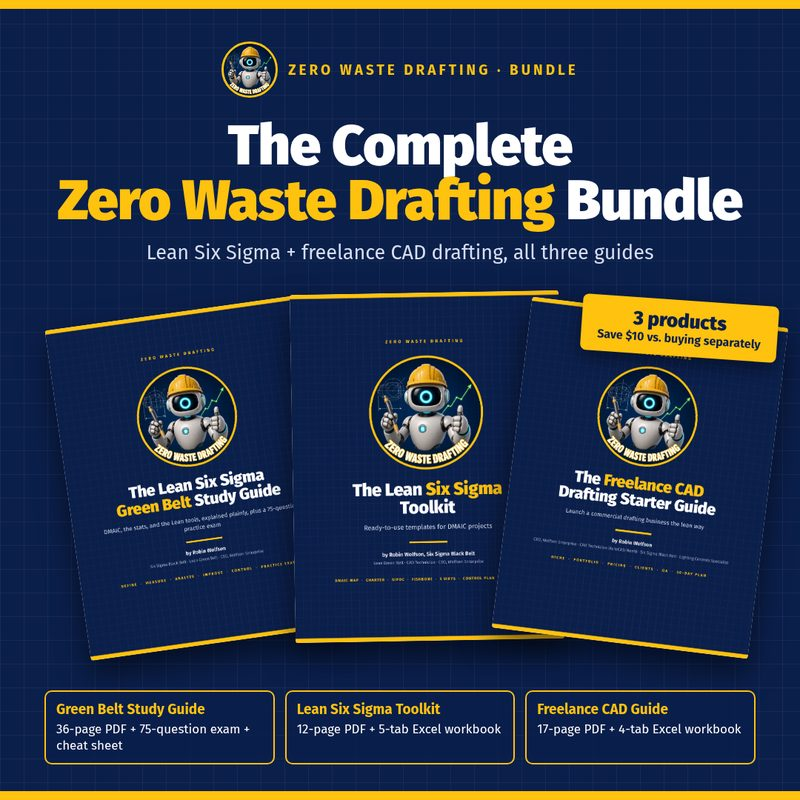
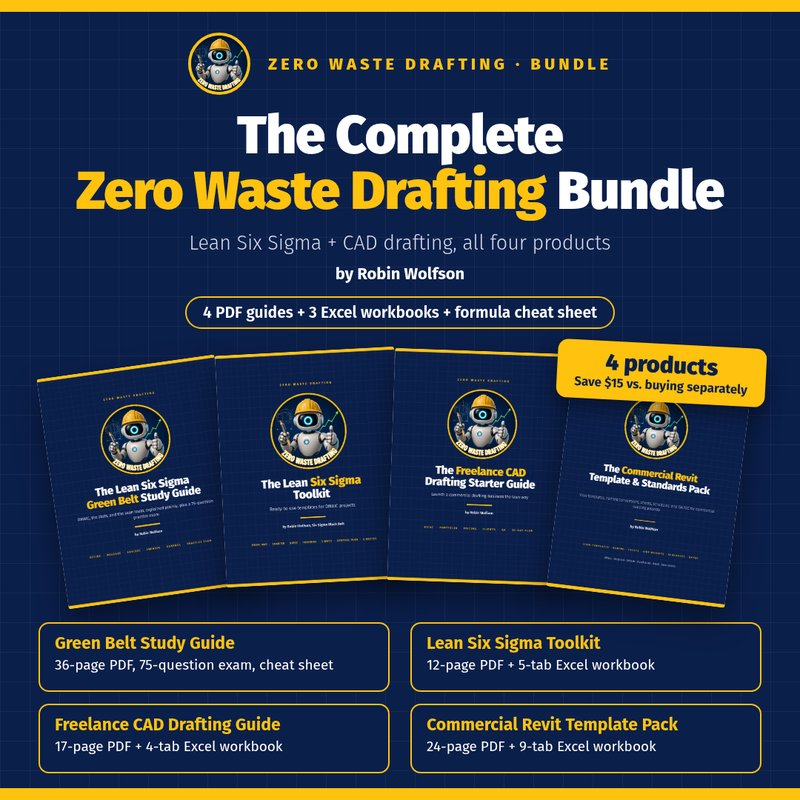
Update the bundles for all four products.
Add the CAD + Revit bundle, point the Complete Bundle at its new link and price, and lay three bundle cards out in one row on desktop.

Changed region(s): [[0.0, 0.0, 1.0, 1.0], [0.0312, 0.4688, 0.0938, 0.5]]

diff --git a/index.html b/index.html
@@ -61,7 +61,7 @@
           </div>
         </div>
         <div class="hero-art">
-          <img src="images/complete-bundle-cover.jpg" width="800" height="800" alt="Cover of the Complete Zero Waste Drafting Bundle showing the Green Belt Study Guide, the Lean Six Sigma Toolkit and the Freelance CAD Drafting Starter Guide">
+          <img src="images/complete-bundle-cover.jpg" width="800" height="800" alt="Cover of the Complete Zero Waste Drafting Bundle showing the Green Belt Study Guide, the Lean Six Sigma Toolkit, the Freelance CAD Drafting Starter Guide and the Commercial Revit Template &amp; Standards Pack">
         </div>
       </div>
     </section>
@@ -173,7 +173,7 @@
           <article class="card bundle">
             <img src="images/green-belt-bundle-cover.jpg" width="800" height="800" loading="lazy" alt="Cover of the Lean Six Sigma Green Belt Bundle: the Green Belt Study Guide and the Lean Six Sigma Toolkit">
             <div class="card-body">
-              <h3>Green Belt + Toolkit Bundle</h3>
+              <h3>Lean Six Sigma Bundle</h3>
               <p class="price"><span class="sr-only">Bundle price: </span>$22 <span class="was"><span class="sr-only">instead of </span><s>$27</s> separately</span></p>
               <p class="save">Save $5</p>
               <ul class="features">
@@ -181,23 +181,40 @@
                 <li>One-page formula cheat sheet PDF</li>
                 <li>Lean Six Sigma Toolkit: 12-page PDF of DMAIC templates and the 5-tab Excel workbook ($12)</li>
               </ul>
-              <a class="btn btn-primary btn-block" href="https://buymeacoffee.com/robinwolfson/e/593126" target="_blank" rel="noopener" aria-label="Buy the Green Belt plus Toolkit bundle for $22 on Buy Me a Coffee (opens in a new tab)">Buy the bundle for $22</a>
+              <a class="btn btn-primary btn-block" href="https://buymeacoffee.com/robinwolfson/e/593126" target="_blank" rel="noopener" aria-label="Buy the Lean Six Sigma Bundle for $22 on Buy Me a Coffee (opens in a new tab)">Buy the bundle for $22</a>
+            </div>
+          </article>
+
+          <article class="card bundle">
+            <img src="images/cad-revit-bundle-cover.jpg" width="800" height="800" loading="lazy" alt="Cover of The CAD + Revit Bundle">
+            <div class="card-body">
+              <h3>CAD + Revit Bundle</h3>
+              <p class="format">2 PDF guides + 2 Excel workbooks</p>
+              <p class="price"><span class="sr-only">Bundle price: </span>$22 <span class="was"><span class="sr-only">instead of </span><s>$27</s> separately</span></p>
+              <p class="save">Save $5</p>
+              <ul class="features">
+                <li>Freelance CAD Drafting Starter Guide: 17-page PDF + 4-tab Excel workbook ($12)</li>
+                <li>Commercial Revit Template &amp; Standards Pack: 24-page PDF + 9-tab Excel workbook ($15)</li>
+              </ul>
+              <a class="btn btn-primary btn-block" href="https://buymeacoffee.com/robinwolfson/e/593901" target="_blank" rel="noopener" aria-label="Buy the CAD + Revit Bundle for $22 on Buy Me a Coffee (opens in a new tab)">Buy the bundle for $22</a>
             </div>
           </article>
 
           <article class="card bundle bundle-featured">
             <p class="ribbon">Best value</p>
-            <img src="images/complete-bundle-cover.jpg" width="800" height="800" loading="lazy" alt="Cover of the Complete Zero Waste Drafting Bundle: all three guides">
+            <img src="images/complete-bundle-cover.jpg" width="800" height="800" loading="lazy" alt="Cover of the Complete Zero Waste Drafting Bundle: all four guides">
             <div class="card-body">
               <h3>Complete Zero Waste Drafting Bundle</h3>
-              <p class="price"><span class="sr-only">Bundle price: </span>$29 <span class="was"><span class="sr-only">instead of </span><s>$39</s> separately</span></p>
-              <p class="save">Save $10</p>
+              <p class="format">4 PDF guides + 3 Excel workbooks + formula cheat sheet</p>
+              <p class="price"><span class="sr-only">Bundle price: </span>$39 <span class="was"><span class="sr-only">instead of </span><s>$54</s> separately</span></p>
+              <p class="save">Save $15</p>
               <ul class="features">
                 <li>Green Belt Study Guide + 75-question practice exam and formula cheat sheet ($15)</li>
                 <li>Lean Six Sigma Toolkit: DMAIC templates in PDF + 5-tab Excel workbook ($12)</li>
                 <li>Freelance CAD Drafting Starter Guide: 17-page PDF + 4-tab Excel workbook ($12)</li>
+                <li>Commercial Revit Template &amp; Standards Pack: 24-page PDF + 9-tab Excel workbook ($15)</li>
               </ul>
-              <a class="btn btn-primary btn-block" href="https://buymeacoffee.com/robinwolfson/e/593132" target="_blank" rel="noopener" aria-label="Buy the Complete Zero Waste Drafting Bundle for $29 on Buy Me a Coffee (opens in a new tab)">Buy all three for $29</a>
+              <a class="btn btn-primary btn-block" href="https://buymeacoffee.com/robinwolfson/e/593903" target="_blank" rel="noopener" aria-label="Buy the Complete Zero Waste Drafting Bundle for $39 on Buy Me a Coffee (opens in a new tab)">Buy all four for $39</a>
             </div>
           </article>
         </div>

diff --git a/styles.css b/styles.css
@@ -102,19 +102,14 @@ details p { margin: .6rem 0 0; }
 
 @media (min-width: 640px) {
   .grid, .preview-grid { grid-template-columns: repeat(2, 1fr); }
-  .bundle-grid { grid-template-columns: repeat(2, 1fr); }
 }
 @media (min-width: 960px) {
   .hero { padding: 4rem 0; }
   .hero-inner { grid-template-columns: 1.2fr 1fr; }
   .grid { grid-template-columns: repeat(2, 1fr); }
   .preview-grid { grid-template-columns: repeat(3, 1fr); }
+  .bundle-grid { grid-template-columns: repeat(3, 1fr); }
   .callout-inner { grid-template-columns: 320px 1fr; }
   .footer-inner { grid-template-columns: 1fr auto; align-items: center; }
   .copyright { grid-column: 1 / -1; }
-}
-@media (min-width: 960px) {
-  .bundle { display: grid; grid-template-columns: 220px 1fr; }
-  .bundle > img { height: 100%; max-height: 260px; align-self: start; margin: 1.25rem 0 1.25rem 1.25rem; width: auto; border-radius: 8px; }
-  .bundle .card-body { padding-left: 1.25rem; }
 }
